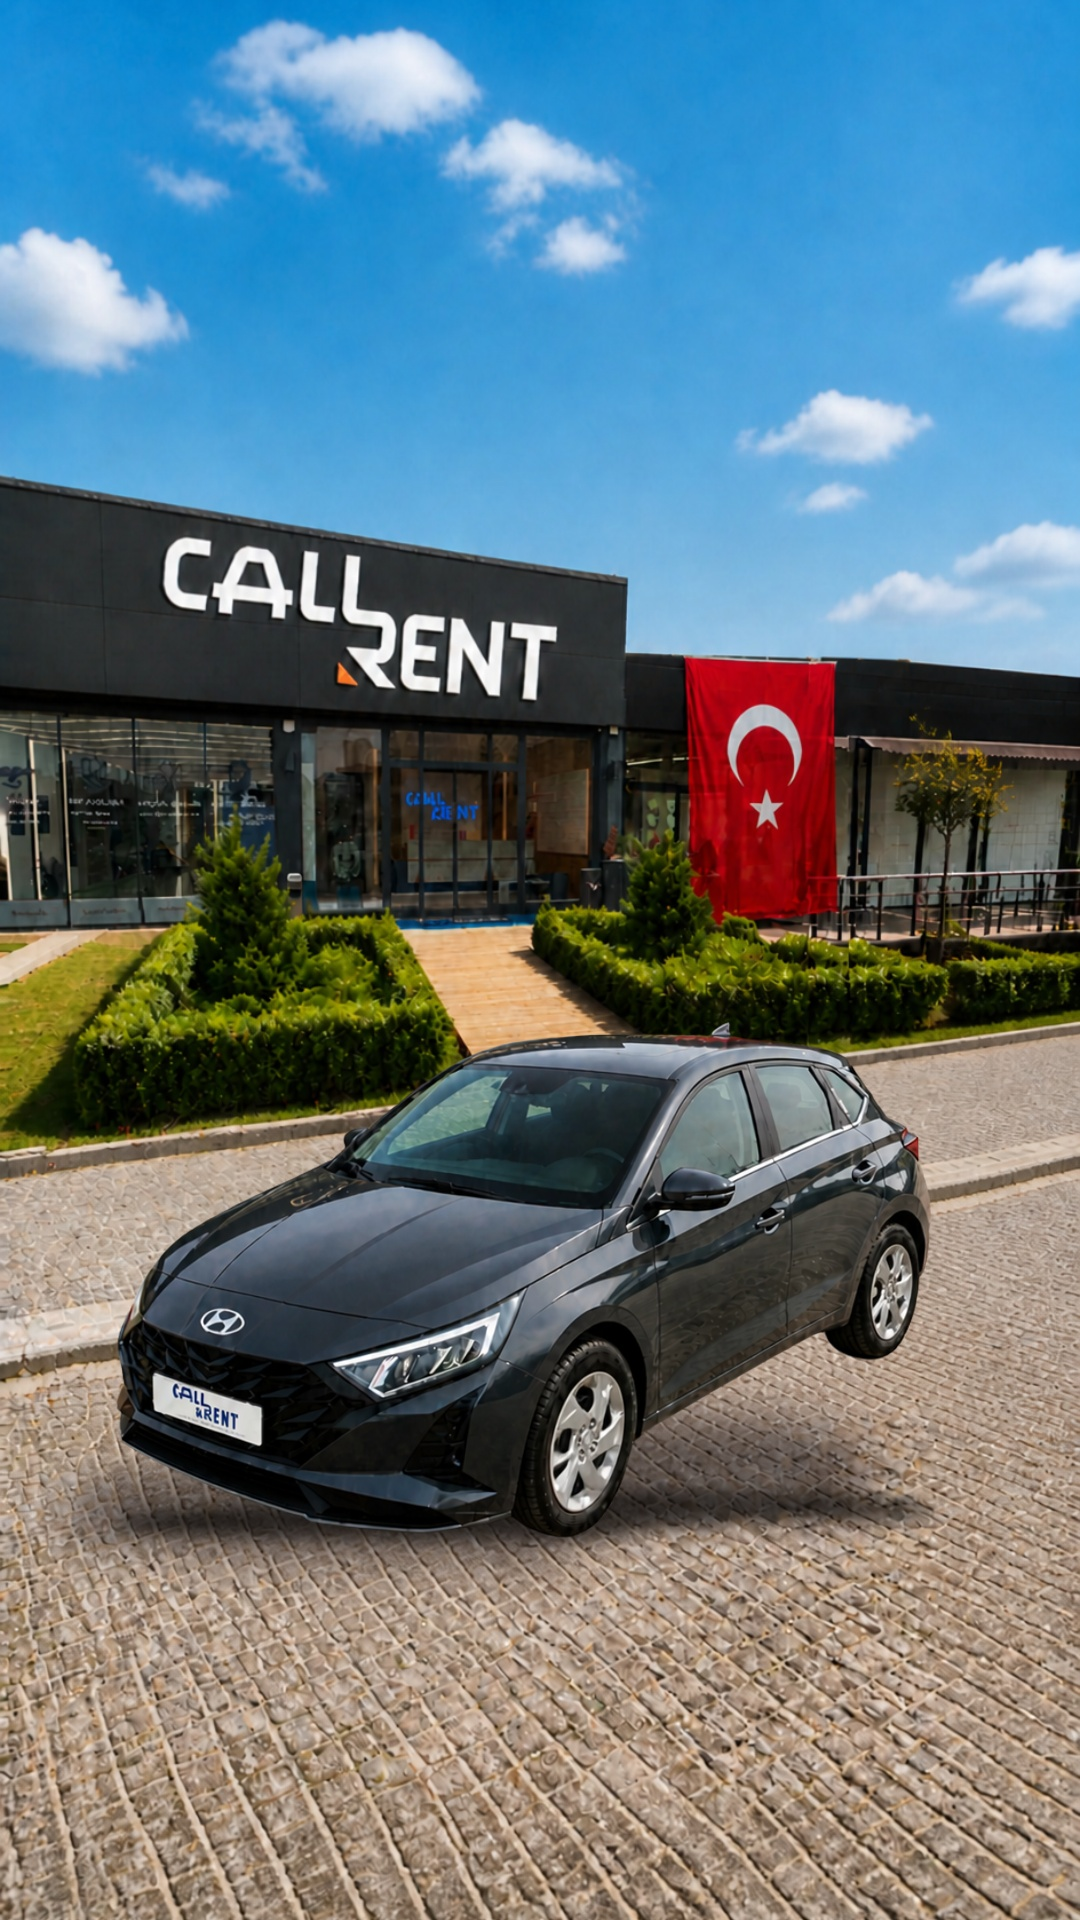
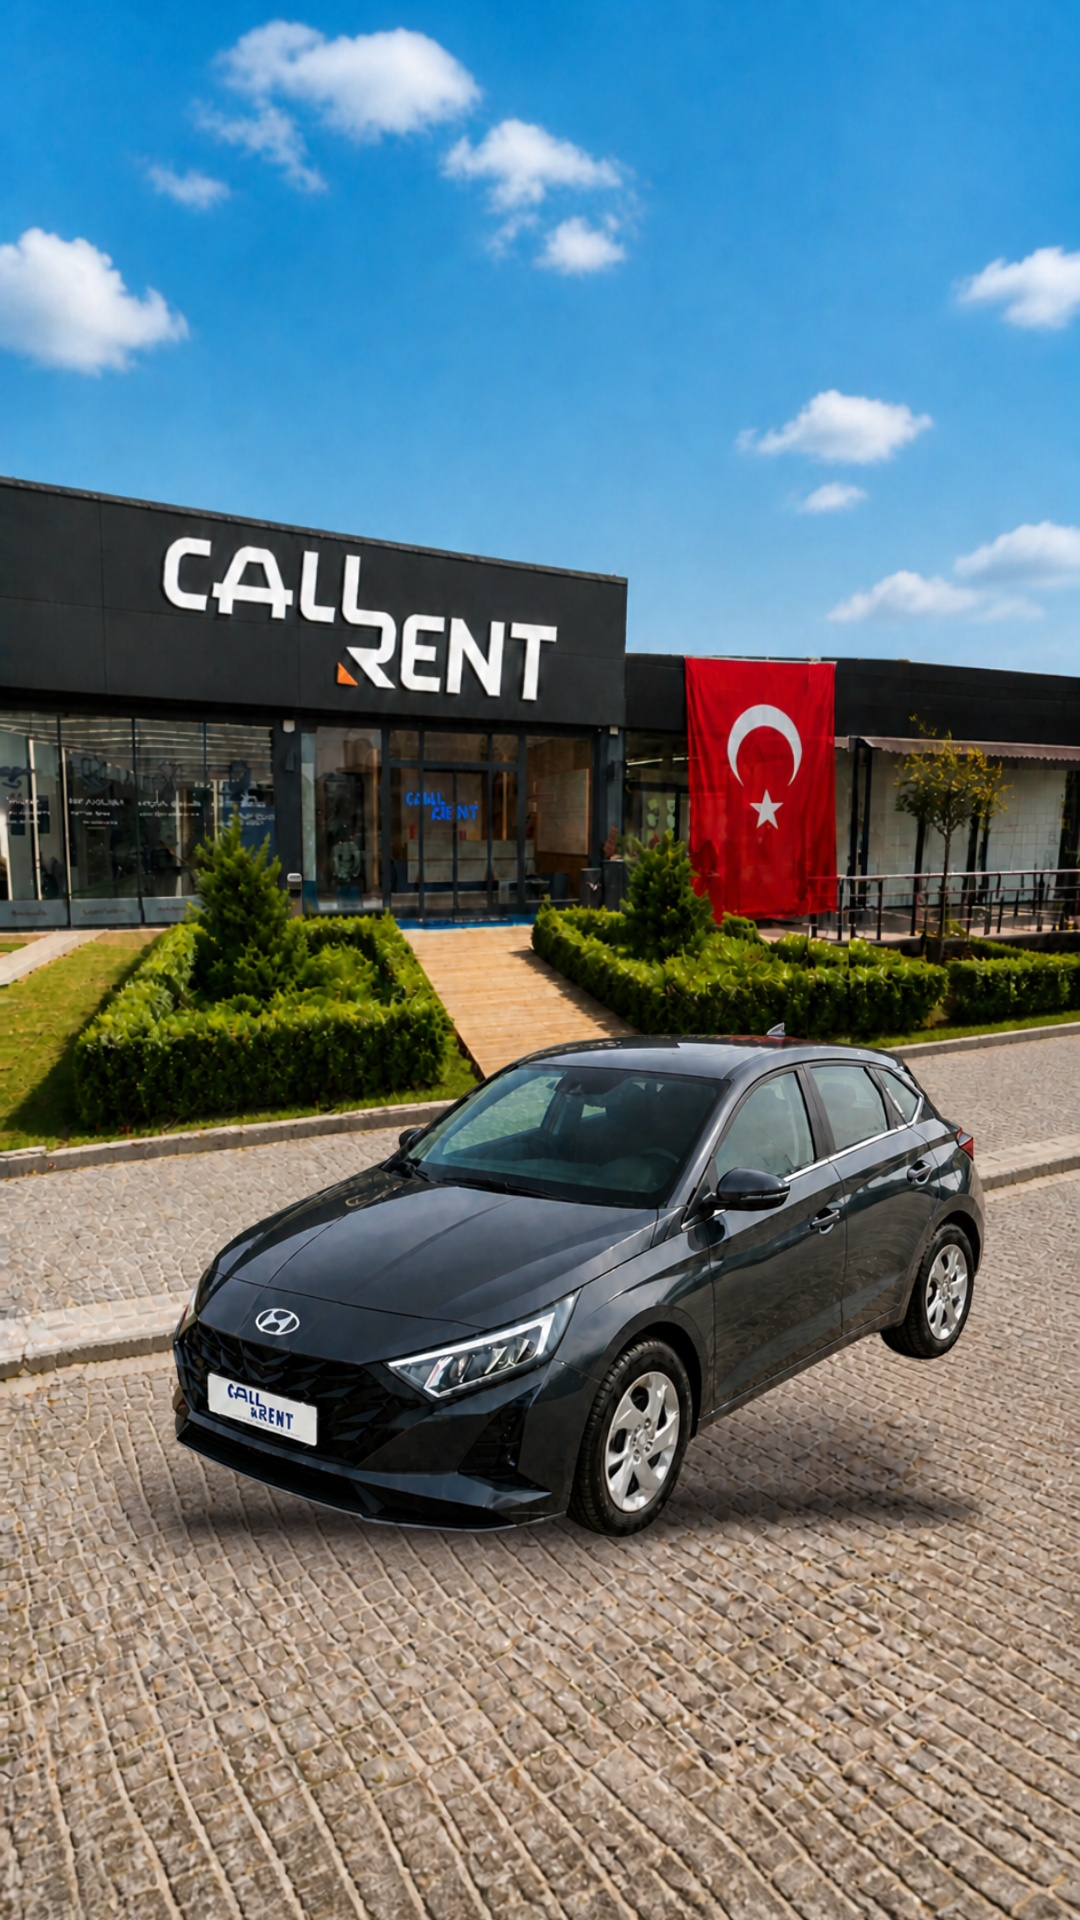
Fleet album: dark i20 test nudged right to cut the empty ground beside the rear
Claude-Session: https://claude.ai/code/session_01M93EGBWm6Ydcsvbq5KGYrg

Changed region(s): [[0.0611, 0.5312, 0.9167, 0.8125]]

diff --git a/marketing/fleet/moveback.py b/marketing/fleet/moveback.py
@@ -7,6 +7,7 @@ from PIL import Image, ImageFilter
 
 HORIZON = 900          # rough eye-level line in the shop photo
 S = 0.92               # 'a little further away'
+DX = 55                # nudge right: less empty ground beside the rear
 
 def squash(mask, y0, f, dx=0, dy=0):
     """flatten a mask vertically about line y0 (factor f) and shift it - a cheap ground projection"""
@@ -23,7 +24,7 @@ def build(name, bg='shop-empty.png'):
     nw, nh = int(W * S), int(H * S)
     small = car.resize((nw, nh), Image.LANCZOS)
     ox = int(round(cx - cx * S)); oy = int(round(HORIZON - HORIZON * S))
-    moved = Image.new('RGBA', (W, H), (0, 0, 0, 0)); moved.alpha_composite(small, (ox, oy))
+    moved = Image.new('RGBA', (W, H), (0, 0, 0, 0)); moved.alpha_composite(small, (ox + DX, oy))
     alpha = moved.getchannel('A')
     bottom = int(np.nonzero(np.asarray(alpha).max(1) > 128)[0].max())
 

diff --git a/marketing/fleet/finish.py b/marketing/fleet/finish.py
@@ -16,6 +16,8 @@ PLATES = {
     'i20-black':   [(122, 1415), (238, 1452), (236, 1495), (120, 1458)],
     # v2: car moved slightly back (moveback.py guide -> AI grounding), full natural shadow
     'i20-black-v2': [(155, 1372), (265, 1410), (261, 1445), (153, 1408)],
+    # v3: as v2, nudged right so there is less empty ground beside the rear
+    'i20-black-v3': [(210, 1380), (318, 1415), (314, 1448), (208, 1412)],
 }
 
 def grow(q, px=2):
